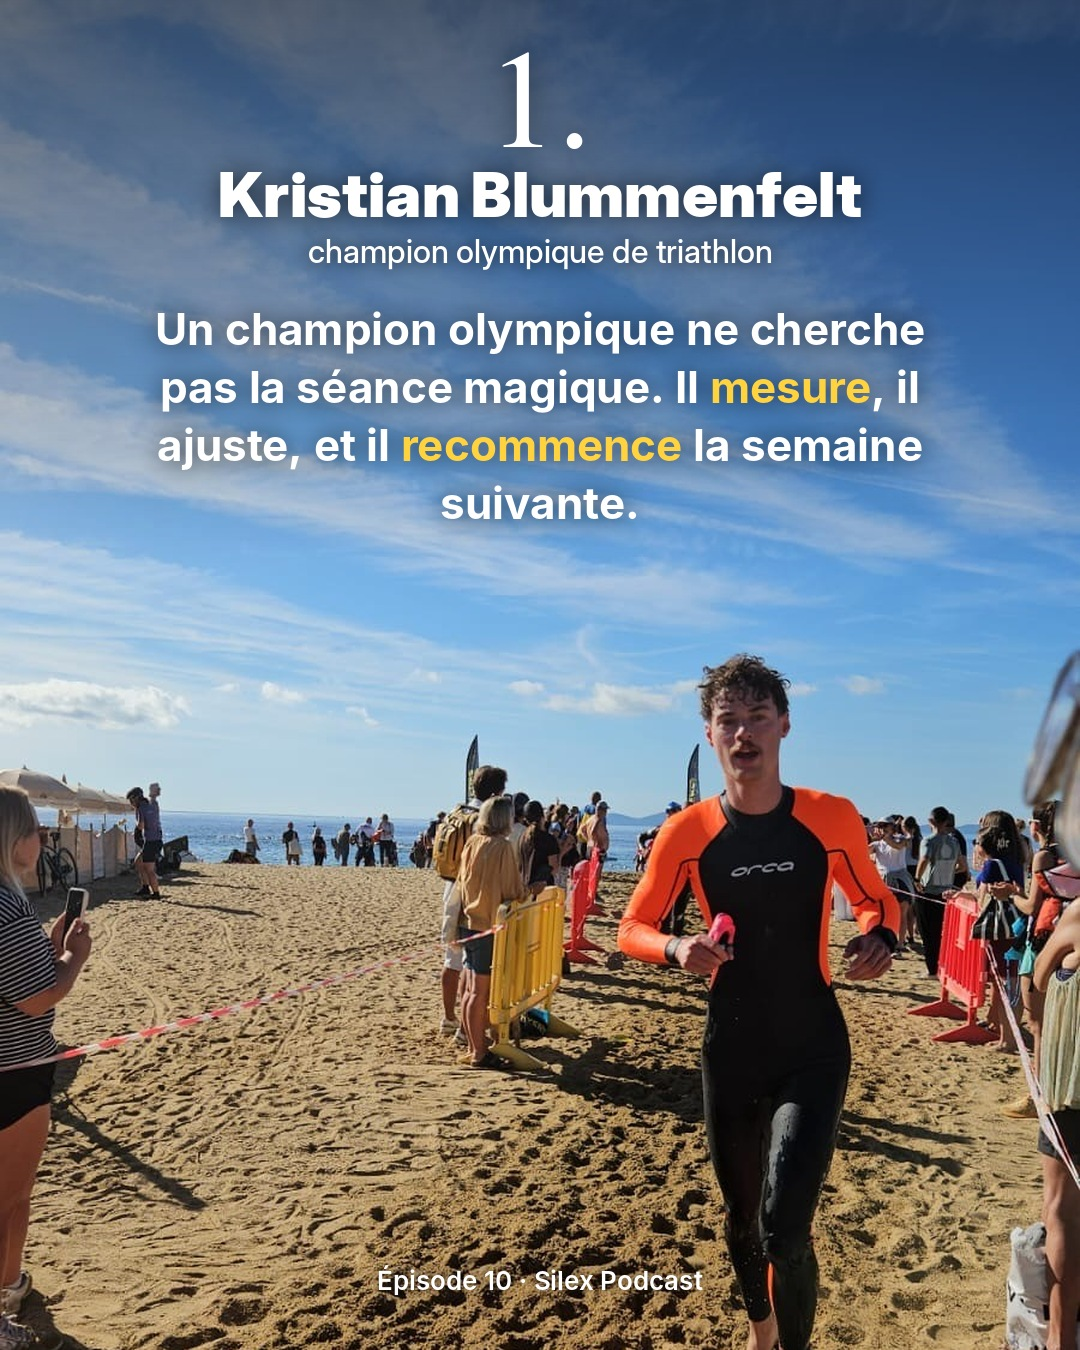
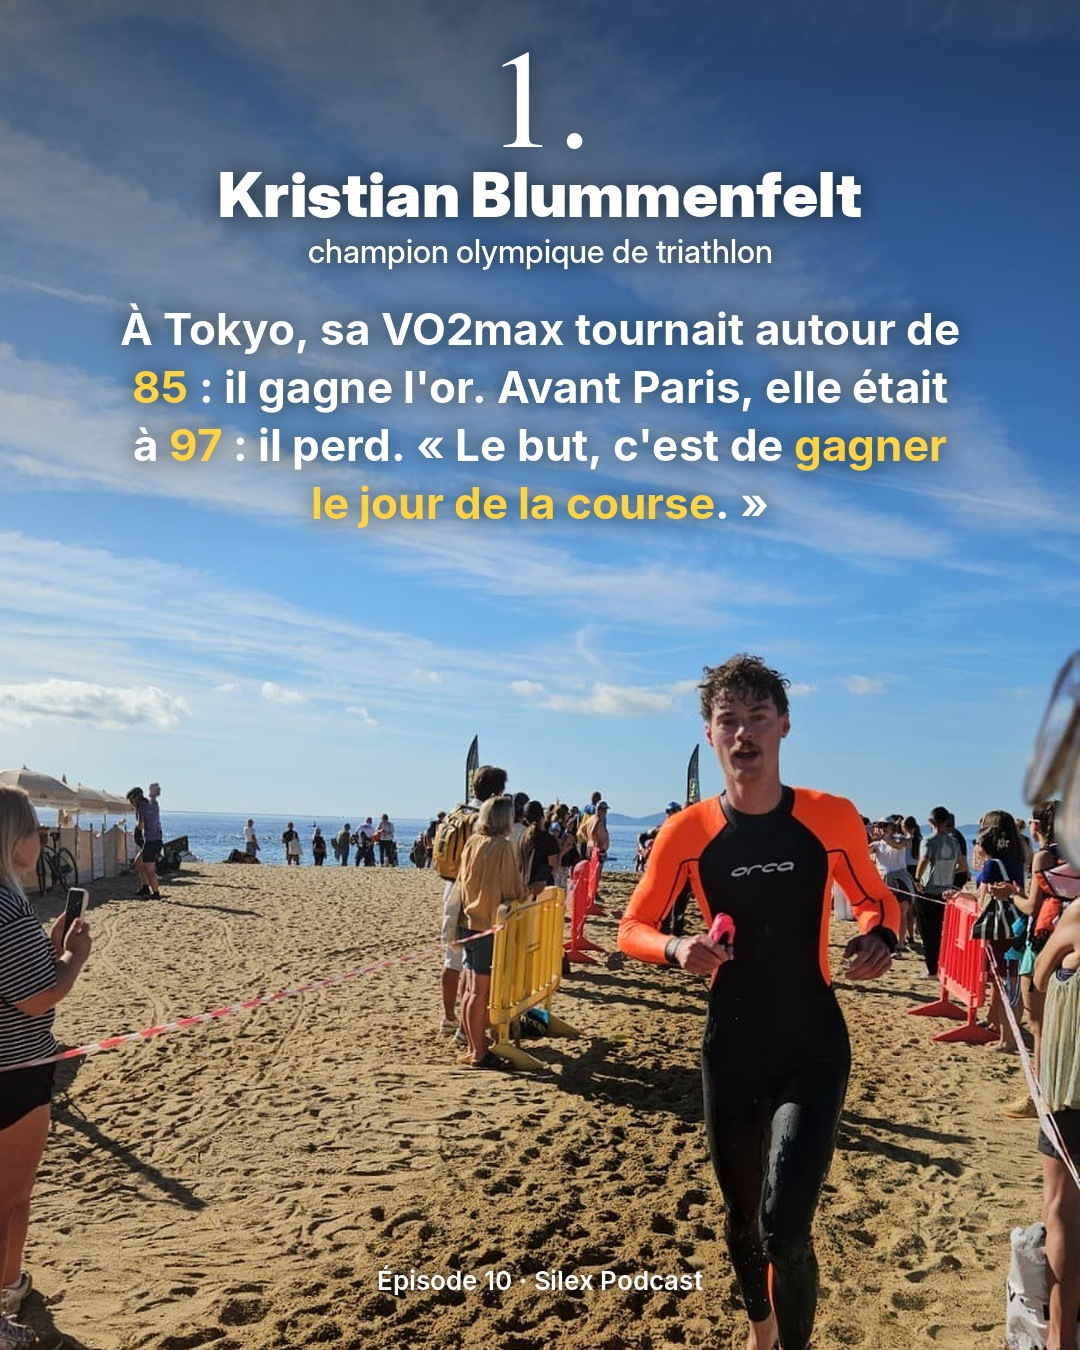
Carrousel Silex : leçon Blummenfelt basée sur l'interview, idées de contenus
Claude-Session: https://claude.ai/code/session_01Bwd8fxM92NWrr3aL1Qd296

Changed region(s): [[0.0917, 0.2178, 0.8861, 0.4044]]

diff --git a/carrousel-silex/make.py b/carrousel-silex/make.py
@@ -150,7 +150,7 @@ COVER = {
 SLIDES = [
     {'photo': 'sortie-eau', 'fy': 0.0, 'n': 1, 'y': 0.02,
      'name': 'Kristian Blummenfelt', 'role': 'champion olympique de triathlon',
-     'text': "Un champion olympique ne cherche pas la séance magique. Il **mesure**, il ajuste, et il **recommence** la semaine suivante.",
+     'text': "À Tokyo, sa VO2max tournait autour de **85** : il gagne l'or. Avant Paris, elle était à **97** : il perd. « Le but, c'est de **gagner le jour de la course**. »",
      'credit': 'Épisode 10 · Silex Podcast'},
     {'photo': 'arche-utmb', 'fy': 0.6, 'n': 2, 'y': 0.06,
      'name': 'Blaise Dubois', 'role': 'fondateur de La Clinique du Coureur',

diff --git a/carrousel-silex/conseils-blummenfelt.md b/carrousel-silex/conseils-blummenfelt.md
@@ -1,0 +1,20 @@
+# Épisode 10 · Kristian Blummenfelt : idées de contenus tirées de la transcription
+
+| # | Passage | Ce qu'il dit | Format | Accroche |
+|---|---|---|---|---|
+| 1 | 14:28–15:32 | VO2max ~85 à Tokyo (or), 97 avant Paris (défaite). « Le but, c'est de gagner le jour de la course. » | Reel (extrait) | « Il avait la VO2max la plus haute de sa carrière… et il a perdu. » |
+| 2 | 17:35–19:06 | « Ça ne sert à rien de faire plus d'entraînement que ce que tu peux absorber. » Si tu ralentis d'une semaine à l'autre, tu en fais trop. | Reel (extrait) | « Le conseil d'un champion olympique aux débutants (que personne n'applique) » |
+| 3 | 15:37–17:28 | Sa semaine type. Son jour de repos : 4 km de natation, 1 h de course, gainage. | Carrousel | « La semaine d'un champion olympique vs la tienne » |
+| 4 | 26:08–26:33 | L'échange chambreur avec Cameron Wurf en pleine course. | Reel (humour) | « Ce que les pros se disent vraiment en pleine course » |
+| 5 | 23:11–23:50 | Il décale son heure de réveil dès 10 jours avant la course (6h30, puis 6h, 5h45, 5h) pour dormir et aller aux toilettes avant le départ. | Reel ou carrousel | « L'astuce d'un champion olympique pour ta prochaine course qui part à l'aube » |
+| 6 | 25:35–25:50 | Le plan de ravitaillement : « tu bois maintenant, sinon tu souffriras dans une heure ». ~160 g de glucides par bidon. | Reel | « Tu ne bois pas assez en course. Voilà comment fait un champion. » |
+| 7 | 27:20–28:08 | Après une mauvaise course : regarder les données, noter ce qu'il aurait fait autrement, passer à la suite. | Reel ou story | « Comment un champion olympique digère une défaite » |
+| 8 | 39:46–40:16 | Conseil aux débutants : « Il faut aimer les heures d'entraînement, pas seulement les podiums. Entraîne-toi avec un groupe d'amis. » | Reel (à partager) | « Envoie ça à ton binôme d'entraînement » |
+| 9 | 38:28–38:42 | « Tu peux créer cette dynamique de groupe n'importe où dans le monde. » | Citation dans un carrousel | « Le vrai secret des Norvégiens n'est pas Bergen » |
+
+## Conseils
+
+- Commence par les extraits 1 et 2 : le chiffre surprenant et le conseil réaliste sont les plus partageables.
+- Sous-titre les reels en français : l'interview est en anglais.
+- Mets le chiffre ou la promesse à l'écran dans les deux premières secondes.
+- Publie les extraits en post collaboratif avec Kristian ou son équipe si possible.

diff --git a/carrousel-silex/legende.md b/carrousel-silex/legende.md
@@ -2,13 +2,13 @@
 
 ## Légende
 
-Ce qu'un champion olympique m'a appris 👇
+Une VO2max de 97… et il a perdu 👇
 
 36 épisodes de Silex Podcast. Un champion olympique, le vainqueur du tout premier UTMB, un chercheur qui étudie la fatigue, une sage-femme devenue championne d'Europe…
 
 Et ce qui revient le plus souvent, ce n'est pas un plan d'entraînement secret :
 
-1. Mesurer, ajuster, recommencer (@[Kristian Blummenfelt])
+1. La VO2max ne gagne pas les courses (@[Kristian Blummenfelt])
 2. Trop, trop vite, trop tôt : voilà d'où viennent les blessures (@[Blaise Dubois])
 3. La fatigue se joue aussi dans la tête (@[Guillaume Millet])
 4. Un vrai boulot n'empêche pas d'aller loin (@[Chloé Herbiet])
@@ -32,7 +32,7 @@ Et ce qui revient le plus souvent, ce n'est pas un plan d'entraînement secret :
 
 Ces textes ont été écrits sans accès aux transcriptions. Vérifie que chacun correspond à ce que l'invité dit, ou remplace-le par une vraie citation :
 
-- [À VALIDER] Slide 2 · Kristian Blummenfelt : « Il mesure, il ajuste, il recommence la semaine suivante. »
+- ✅ Slide 2 · Kristian Blummenfelt : validé avec la transcription (14:28–15:32, VO2max ~85 à Tokyo, 97 avant Paris).
 - [À VALIDER] Slide 3 · Blaise Dubois : « trop, trop vite, trop tôt ».
 - [À VALIDER] Slide 4 · Guillaume Millet : « Ton cerveau décide souvent avant tes muscles. »
 - [À VALIDER] Slide 5 · Chloé Herbiet : « Un vrai boulot n'empêche pas d'aller loin. »
